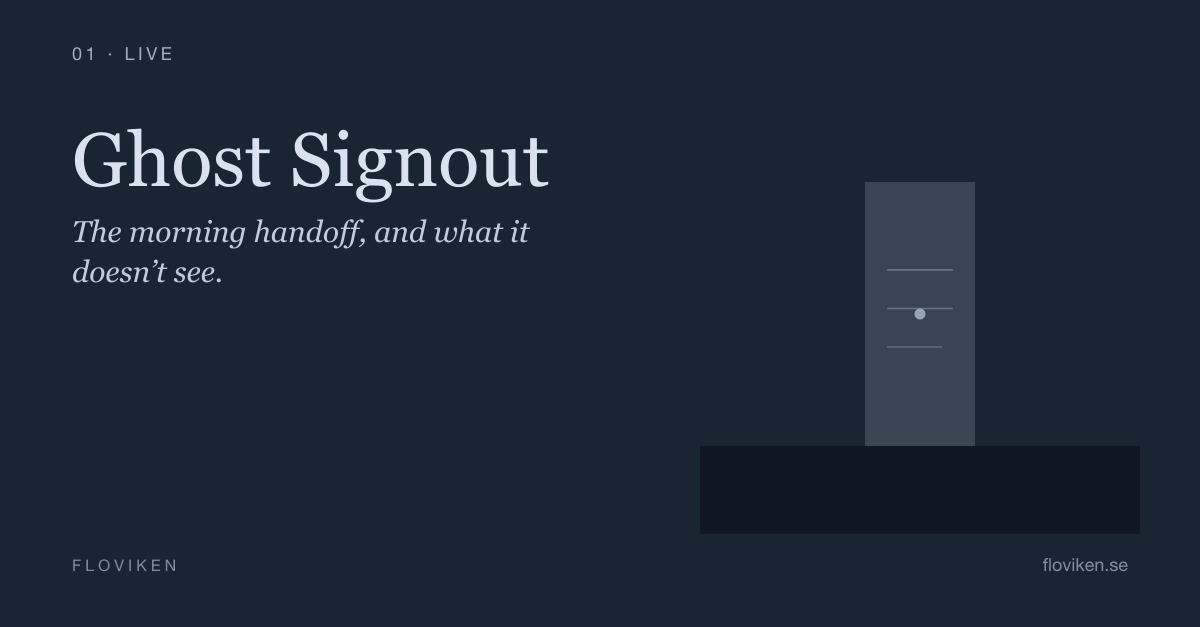
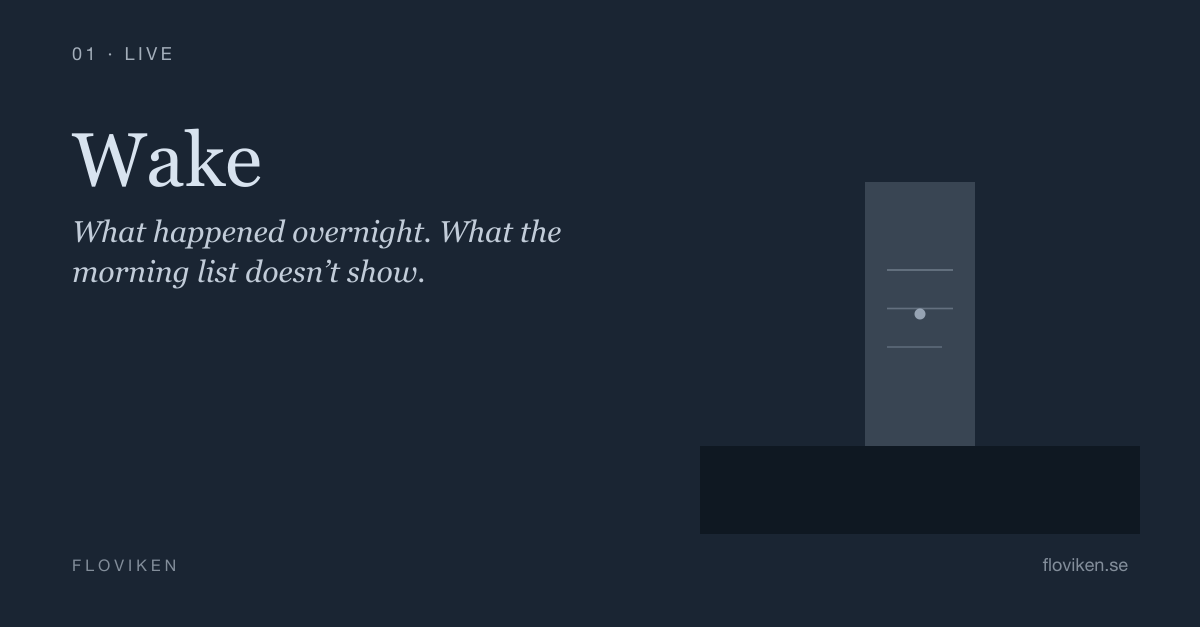
Wake & Daybreak writeups: reflect the merged morning sheet; fix load-score copy
Both rooms now describe one handoff — start night shift, generate the
morning sheet, lock to hand it over — with Wake's overnight layer folded
into Daybreak's assignment sheet.

Daybreak corrections against the keel scoring code:
- load score is the SUM of four factors, not "the product"
- the third factor is DISPOSITION status, not "day of stay"
- timing stated once as "about a second"
- audit wording scoped to the day's locked sheet
- link text: "View the live worklist on Keel"

Regenerated og/wake.png (was rendering "Ghost Signout"; now "Wake").

Changed region(s): [[0.0617, 0.2121, 0.4625, 0.4545]]

diff --git a/src/app/(detail)/wake/page.js b/src/app/(detail)/wake/page.js
@@ -19,20 +19,6 @@ const sectionLabel = {
   color: '#2a2a2a',
 };
 
-const bulletList = {
-  fontFamily: '"Georgia", serif',
-  fontSize: '1rem',
-  lineHeight: '1.7',
-  color: '#4a4a4a',
-  marginTop: 0,
-  marginBottom: '1rem',
-  paddingLeft: '1.5rem',
-};
-
-const bulletItem = {
-  marginBottom: '0.25rem',
-};
-
 const buttonRow = {
   textAlign: 'center',
   marginTop: '2.5rem',
@@ -99,61 +85,31 @@ export default function Wake() {
         marginBottom: '1.5rem',
         marginTop: 0,
       }}>
-        Wake &mdash; surfacing overnight departures, reconciling the chart
+        Wake &mdash; the overnight layer of the morning handoff
       </h1>
       <p style={paragraph}>
-        <strong style={sectionLabel}>Background.</strong> The morning handoff is written for the patients still on the service. But some leave overnight &mdash; they pass away, transfer to inpatient hospice, leave AMA, transfer to another facility, or are admitted and discharged before morning. By the time the day team rounds, those patients are off the active list. The census shows who is in the beds, not what happened to everyone who is no longer in one.
+        <strong style={sectionLabel}>Background.</strong> The morning assignment list is built from the patients still on the service &mdash; who is here, and who covers them. But some patients leave overnight: they pass away, transfer to inpatient hospice, leave AMA, transfer to another facility, or are admitted and discharged before morning. By the time the day team rounds, those patients are off the list, and the list is silent on them. The assignments show who is present; they cannot show who left, or why, or what they left unfinished.
       </p>
       <p style={paragraph}>
-        That gap is about what the day team never learns. The AMA departure that should be on the record. The overnight result no one has acted on. The family that still has not been reached. The patient who generated each of these is no longer on the list, so neither is the thing they left behind.
+        There is also a second kind of overnight loose end: the patient who was already discharged, days ago, when a lab calls at 3 a.m. with a positive culture and someone has to reach them. They are not on any list either. These are the things the morning handoff has no place for, because the patient who generated them is no longer on it.
       </p>
       <p style={paragraph}>
-        <strong style={sectionLabel}>Hypothesis.</strong> A clinician captures each disposition as it happens; at sign-off a language model turns them into a handoff the day team can read in thirty seconds. Structured fields, not the model, decide what is still outstanding. And because each event names a real patient, it can also reconcile the chart &mdash; moving the patient off the active list to where they belong. The clinician confirms every reconciliation. The model only writes language; it never invents a fact, judges clinical state, or changes the chart on its own.
+        <strong style={sectionLabel}>Hypothesis.</strong> The clinician who worked the night is the one who knows what happened on it &mdash; so that clinician should produce the handoff, not reconstruct it later from a list that has already moved on. Wake is the overnight layer of that handoff: it reads the night&apos;s departures directly from the chart, lets the clinician annotate them and track any open loops, and folds the result into the morning assignment sheet that the day team already reads. One person produces it; the lock hands it over.
       </p>
       <p style={paragraph}>
-        <strong style={sectionLabel}>Method.</strong> Wake captures the six dispositions that remove a patient from the list:
-      </p>
-      <ul style={bulletList}>
-        <li style={bulletItem}>Critical Follow-up</li>
-        <li style={bulletItem}>Expired</li>
-        <li style={bulletItem}>Inpatient Hospice</li>
-        <li style={bulletItem}>AMA</li>
-        <li style={bulletItem}>Transfer Out</li>
-        <li style={bulletItem}>Admit &amp; Discharge</li>
-      </ul>
-      <p style={paragraph}>
-        Each event is logged in a few taps &mdash; category, patient, time, a note, and for the ones carrying an unfinished task, structured fields (death certificate signed, family notified, transfer destination, capacity assessed). At sign-off the model assembles them into a categorized document, under two rules:
-      </p>
-      <ul style={bulletList}>
-        <li style={bulletItem}>
-          Structured fields, evaluated in code, decide every PENDING flag. The model renders them; it never infers them.
-        </li>
-        <li style={bulletItem}>
-          The summary contains nothing the clinician did not enter. The model tightens language; it does not add fact.
-        </li>
-      </ul>
-      <p style={paragraph}>
-        <strong style={sectionLabel}>Reconciliation loop.</strong> Five of the six are discharges; the clinician confirms each one.
-      </p>
-      <ul style={bulletList}>
-        <li style={bulletItem}>
-          <strong style={sectionLabel}>Transfer Out, Inpatient Hospice, Admit &amp; Discharge, Expired</strong> &mdash; discharged through Keel&apos;s own path with the matching disposition: the status moves, the encounter closes, medications reconcile, and the disposition is recorded, so the chart shows not just that the patient left but how.
-        </li>
-        <li style={bulletItem}>
-          <strong style={sectionLabel}>AMA</strong> &mdash; also a discharge, but not Wake&apos;s to close. It has to clear a capacity-and-risk gate first, so Wake hands it off and leaves the patient on the list until that is done.
-        </li>
-        <li style={bulletItem}>
-          <strong style={sectionLabel}>Critical Follow-up</strong> &mdash; not a discharge. The patient is still admitted; nothing changes.
-        </li>
-      </ul>
-      <p style={paragraph}>
-        Until a departure is reconciled, Wake flags the patient as still active in the chart &mdash; so the capture list doubles as a checklist of what the EMR has not caught up on.
+        <strong style={sectionLabel}>Method.</strong> Wake adds nothing the chart does not already record. A clinician starts a night shift. Every patient discharged during the shift &mdash; to hospice, AMA, a transfer, a routine discharge, or expired &mdash; appears automatically as a departure, read from the chart&apos;s own discharge events and scoped to the shift&apos;s window. The clinician can add a short note to any of them for the day team. Departures are derived, never re-entered.
       </p>
       <p style={paragraph}>
-        <strong style={sectionLabel}>Integration.</strong> Wake runs against the 18 synthetic patients in Keel. Reconciliations write through the same path the chart&apos;s own controls use, so the worklist, the morning assignment list, and the discharged view stop disagreeing about who is still on service. Generated sign-outs appear on the Keel activity log.
+        The one thing the chart cannot otherwise carry is an open loop on a patient who is already gone. Wake stores exactly that: a follow-up thread &mdash; a note and a status (open, reached, unable to reach, handed off) on an already-discharged patient &mdash; opened by the night clinician and closed by whoever resolves it. It is the only clinical content Wake originates from nothing. The shift boundary and the optional departure note are its only other writes, and none of them touch the chart.
       </p>
       <p style={paragraph}>
-        <strong style={sectionLabel}>Status.</strong> Live. Deployed against the 18 synthetic patients, with one overnight shift recorded across all six categories.
+        <strong style={sectionLabel}>Generate and lock.</strong> At the end of the night, one action generates the morning sheet: it runs the assignment algorithm and freezes the overnight section &mdash; departures and open follow-ups &mdash; into a single working draft. The clinician reviews it, adjusts an assignment if someone is sicker than the load model knows, then locks it. Locking stamps the sheet with the time and the author and makes it read-only; the lock is the handoff. The day team reads the locked sheet and picks up patients as they assume care. The structured sheet is the handoff. A language model can, on request, render it into prose, but it is never on the path: it writes language only, invents no fact, and the sheet is complete without it.
+      </p>
+      <p style={paragraph}>
+        <strong style={sectionLabel}>Integration.</strong> Wake runs against the synthetic patients in Keel and shares its chart with the morning assignment room. Because departures are read from the same discharge events the worklist and the discharged view already use, the three never disagree about who is on service: a patient who left is absent from the assignments, present in the overnight section, and on the discharged list &mdash; one fact, three views. The assignments account for who is here; the overnight layer accounts for everyone who is not.
+      </p>
+      <p style={paragraph}>
+        <strong style={sectionLabel}>Status.</strong> Live. Deployed against the synthetic patients in Keel, producing the morning sheet &mdash; assignments plus the overnight layer &mdash; as one locked handoff.
       </p>
 
       <div style={buttonRow}>

diff --git a/src/app/(detail)/daybreak/page.js b/src/app/(detail)/daybreak/page.js
@@ -17,20 +17,6 @@ const sectionLabel = {
   color: '#2a2a2a',
 };
 
-const bulletList = {
-  fontFamily: '"Georgia", serif',
-  fontSize: '1rem',
-  lineHeight: '1.7',
-  color: '#4a4a4a',
-  marginTop: 0,
-  marginBottom: '1rem',
-  paddingLeft: '1.5rem',
-};
-
-const bulletItem = {
-  marginBottom: '0.25rem',
-};
-
 const buttonRow = {
   textAlign: 'center',
   marginTop: '2.5rem',
@@ -84,51 +70,37 @@ export default function Daybreak() {
         The hour before rounds
       </h1>
       <p style={paragraph}>
-        <strong style={sectionLabel}>Background.</strong> Every morning before rounds, the patient list is redistributed by hand. Patients picked up overnight by the swing and night shifts are folded in. The prior day&apos;s discharges are removed. An oncoming hospitalist may take over a service for a colleague signing off, and patients are kept, where possible, with the doctor who already knows them. The list is balanced by clinical load, not by headcount.
+        Every morning in hospital medicine, before the day team arrives, the patient list has to be redistributed. Overnight admissions and consults from the swing and night shifts need to be folded into the existing service. Discharges from the prior day need to be removed. Patients carried over from yesterday need to stay, where possible, with the hospitalist who already knows them. The result has to be balanced &mdash; not by patient count, but by clinical load &mdash; and it has to be out before the day starts, because nurses, pharmacists, consultants, and families all depend on knowing whose name is next to whose patient.
       </p>
       <p style={paragraph}>
-        Every patient needs a responsible name before the day starts, because the hospital, the patient, and the family all depend on knowing who is responsible. This is done manually, every day, in nearly every group.
+        In most hospitals, this work is done by hand. Someone comes in early &mdash; sometimes a nurse, sometimes a physician &mdash; reads through charts, and makes judgment calls about which patient is heavier than which. The work is skilled, repetitive, and time-consuming. The clinical day cannot start until it is done.
       </p>
       <p style={paragraph}>
-        <strong style={sectionLabel}>Hypothesis.</strong> A model could produce a balanced morning assignment in seconds, with the reasoning visible, that a clinician can accept, adjust, or override. The model does the mechanical balancing. The soft judgment a doctor carries &mdash; the difficult family, the patient who looks stable but isn&apos;t &mdash; stays with the human.
+        Daybreak asks a narrow question. Could a small piece of software, given a synthetic patient pool and a list of working hospitalists, produce a balanced morning assignment in about a second &mdash; with the reasoning visible &mdash; that a human could accept, adjust, or override?
       </p>
       <p style={paragraph}>
-        <strong style={sectionLabel}>Method.</strong> Each patient gets a load score from four factors a chart can answer:
-      </p>
-      <ul style={bulletList}>
-        <li style={bulletItem}>Active problems</li>
-        <li style={bulletItem}>Level of care</li>
-        <li style={bulletItem}>Day of stay</li>
-        <li style={bulletItem}>Primary versus consult</li>
-      </ul>
-      <p style={paragraph}>
-        The factors carry the weight of clinical reality: an ICU patient outweighs a floor patient, a new admission outweighs a known one, and a consult counts for less than a primary. The scores are summed across the working hospitalists, and an optimizer balances total load &mdash; not patient count &mdash; while preserving continuity from the prior day where possible.
+        The model is simple. Each patient gets a load score from four factors a chart can answer: number of active problems, level of care, disposition status, and primary versus consult role. ICU patients carry more weight than floor patients. Patients being discharged today and new admits carry more weight than known mid-stay patients. Consults carry less than primary. The scores are summed across hospitalists, and the optimizer balances total load &mdash; not patient count &mdash; while preserving continuity from the prior day where possible.
       </p>
       <p style={paragraph}>
-        Because each score is the product of four readable numbers, every assignment can be explained in one sentence. The model does not hide its reasoning behind a black box.
+        The architectural commitment is that the model is legible. Every patient&apos;s load is the sum of four numbers anyone can read. Every assignment can be explained in one sentence. The tool does not hide its reasoning behind a black box. A hospitalist looking at her list should be able to ask &ldquo;why did I get this patient?&rdquo; and get an honest answer.
       </p>
       <p style={paragraph}>
-        <strong style={sectionLabel}>Verification loop.</strong> The proposal arrives as columns, one per hospitalist, with each patient&apos;s load score broken into its parts, so the operator can see exactly why a number is what it is. The operator acts on it:
-      </p>
-      <ul style={bulletList}>
-        <li style={bulletItem}>
-          <strong style={sectionLabel}>Override.</strong> Drag a patient between columns to move them off the proposed assignment.
-        </li>
-        <li style={bulletItem}>
-          <strong style={sectionLabel}>Pin.</strong> Lock a patient so re-proposing leaves them in place while the rest rebalances.
-        </li>
-        <li style={bulletItem}>
-          <strong style={sectionLabel}>Commit.</strong> Accept the list when it is right.
-        </li>
-      </ul>
-      <p style={paragraph}>
-        On commit, both the algorithmic baseline and the human-edited final state are written to an audit row, preserving the difference between what the model proposed and what the clinician actually chose.
+        Synthetic data only. No EHR integration. A prototype, not a clinical tool. The point is to show that an hour of pre-shift labor could be a button.
       </p>
       <p style={paragraph}>
-        <strong style={sectionLabel}>Integration.</strong> Daybreak runs against the synthetic patient pool in Keel. The morning proposal appears as columns on the Keel worklist, where the operator overrides and commits it, and every committed run is stored with the algorithmic baseline it started from.
+        <strong style={sectionLabel}>The morning sheet, and the night before it.</strong> Daybreak is the morning half of a single handoff. The night before, in Wake, the clinician on the overnight shift accumulates what happened &mdash; who left the service and why, and any open loops on patients already discharged. When that clinician generates the morning sheet, Daybreak runs the assignment algorithm and freezes the night&apos;s overnight layer into the same document: the sheet opens with what happened overnight, then lists who covers whom today. The two halves answer different questions &mdash; the overnight layer accounts for everyone who left, the assignments account for everyone still here &mdash; and together they are the whole service on one page.
       </p>
       <p style={paragraph}>
-        <strong style={sectionLabel}>Status.</strong> Live. The experiment is deployed against the Keel synthetic patient pool.
+        <strong style={sectionLabel}>What Daybreak does in practice.</strong> Daybreak reads yesterday&apos;s roster, scores each patient on four factors, and proposes a balanced distribution across the working hospitalists in about a second. The proposal arrives as three columns, one per hospitalist, with every patient&apos;s load score broken out into its parts &mdash; active problems, level of care, disposition, and role &mdash; so the operator can see exactly why a number is what it is. Drag a patient between columns to override the proposal. Pin a patient with a lock so re-proposing leaves them where they are. When the sheet is right, it is produced in two deliberate steps. Generating it writes an unlocked working draft &mdash; the assignments plus the frozen overnight layer &mdash; that the clinician can still review and adjust. Locking it stamps the sheet with the time and the author and makes it read-only: the lock is the handoff. The day team reads the locked sheet and picks up patients as they assume care. For the day&apos;s locked sheet, both the algorithmic baseline and the human-edited final state are written to an audit row, so the difference between what the model proposed and what a clinician actually chose is preserved.
+      </p>
+      <p style={paragraph}>
+        <strong style={sectionLabel}>What Daybreak doesn&apos;t do.</strong> Daybreak does not read real patient records. The roster, the prior assignments, and the load factors all come from a synthetic chart substrate. Nothing it computes touches a production system.
+      </p>
+      <p style={paragraph}>
+        Daybreak does not make clinical decisions. It balances workload. It does not decide who needs to be seen first, whether a patient is sick enough to escalate, or which hospitalist should keep which kind of case. Those are still human calls, made by the people on the list.
+      </p>
+      <p style={paragraph}>
+        Daybreak does not replace the operator. Every assignment can be moved. Every proposal can be re-run. The final state is whatever the operator locks, not whatever the algorithm proposed. The tool exists to do the arithmetic so the operator can spend their attention on the judgment calls.
       </p>
 
       <div style={buttonRow}>
@@ -138,7 +110,7 @@ export default function Daybreak() {
           rel="noopener noreferrer"
           style={buttonStyle}
         >
-          Open Daybreak in Keel &rarr;
+          View the live worklist on Keel &rarr;
         </a>
       </div>
 